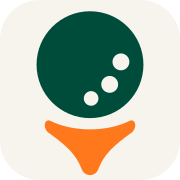
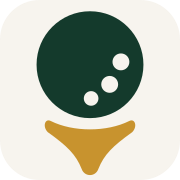
Refine brand with cohesive serif wordmark and gold accents

Changed region(s): [[0.25, 0.6667, 0.75, 0.9722]]

diff --git a/src/components/branding/logo.tsx b/src/components/branding/logo.tsx
@@ -19,11 +19,11 @@ export function BrandLogo({
       className={cn("inline-flex shrink-0 items-center rounded-sm focus-visible:outline-2 focus-visible:outline-offset-4 focus-visible:outline-forest-900", className)}
     >
       <Image
-        src={compact ? "/brand/outing-icon.svg" : "/brand/outing-logo.webp"}
+        src={compact ? "/brand/outing-icon.svg?v=20261007" : "/brand/outing-logo.svg?v=20261007"}
         alt="Outing.golf"
-        width={compact ? 64 : 800}
-        height={compact ? 64 : 168}
-        className={compact ? "h-11 w-11" : "h-auto w-[108px] min-[375px]:w-[152px] sm:w-[190px]"}
+        width={compact ? 64 : 487}
+        height={compact ? 64 : 96}
+        className={compact ? "h-11 w-11" : "h-auto w-[108px] min-[375px]:w-[144px] sm:w-[180px]"}
         unoptimized
       />
     </Link>

diff --git a/src/components/layout/site-footer.tsx b/src/components/layout/site-footer.tsx
@@ -11,7 +11,7 @@ export async function SiteFooter() {
     <footer className="border-t border-charcoal/6 bg-white/70">
       <div className="mx-auto flex max-w-7xl flex-col gap-6 px-4 py-10 text-sm text-charcoal/60 sm:px-6 md:flex-row md:items-center md:justify-between lg:px-8">
         <div>
-          <BrandLogo className="mb-4 [&_img]:w-[190px]" />
+          <BrandLogo className="mb-4 [&_img]:w-[180px]" />
           <p className="font-medium text-charcoal">{siteProfile.legalBusinessName}</p>
           <p>{siteProfile.footerTagline}</p>
           <p className="mt-2">

diff --git a/app/join/[token]/opengraph-image.tsx b/app/join/[token]/opengraph-image.tsx
@@ -52,7 +52,7 @@ export default async function OgImage({
         }}
       >
         <div style={{ display: "flex", padding: "16px 20px", background: "#f7f4ee", borderRadius: 12, marginBottom: "auto", alignSelf: "flex-start" }}>
-          <img src={logo} alt="Outing.golf" width={280} height={59} />
+          <img src={logo} alt="Outing.golf" width={280} height={55} />
         </div>
 
         {/* Trip name */}

diff --git a/app/opengraph-image.tsx b/app/opengraph-image.tsx
@@ -25,7 +25,7 @@ export default async function OgImage() {
           color: "#212423"
         }}
       >
-        <img src={logo} alt="Outing.golf" width={340} height={71} style={{ marginBottom: 40 }} />
+        <img src={logo} alt="Outing.golf" width={340} height={67} style={{ marginBottom: 40 }} />
 
         {/* H1 */}
         <div
